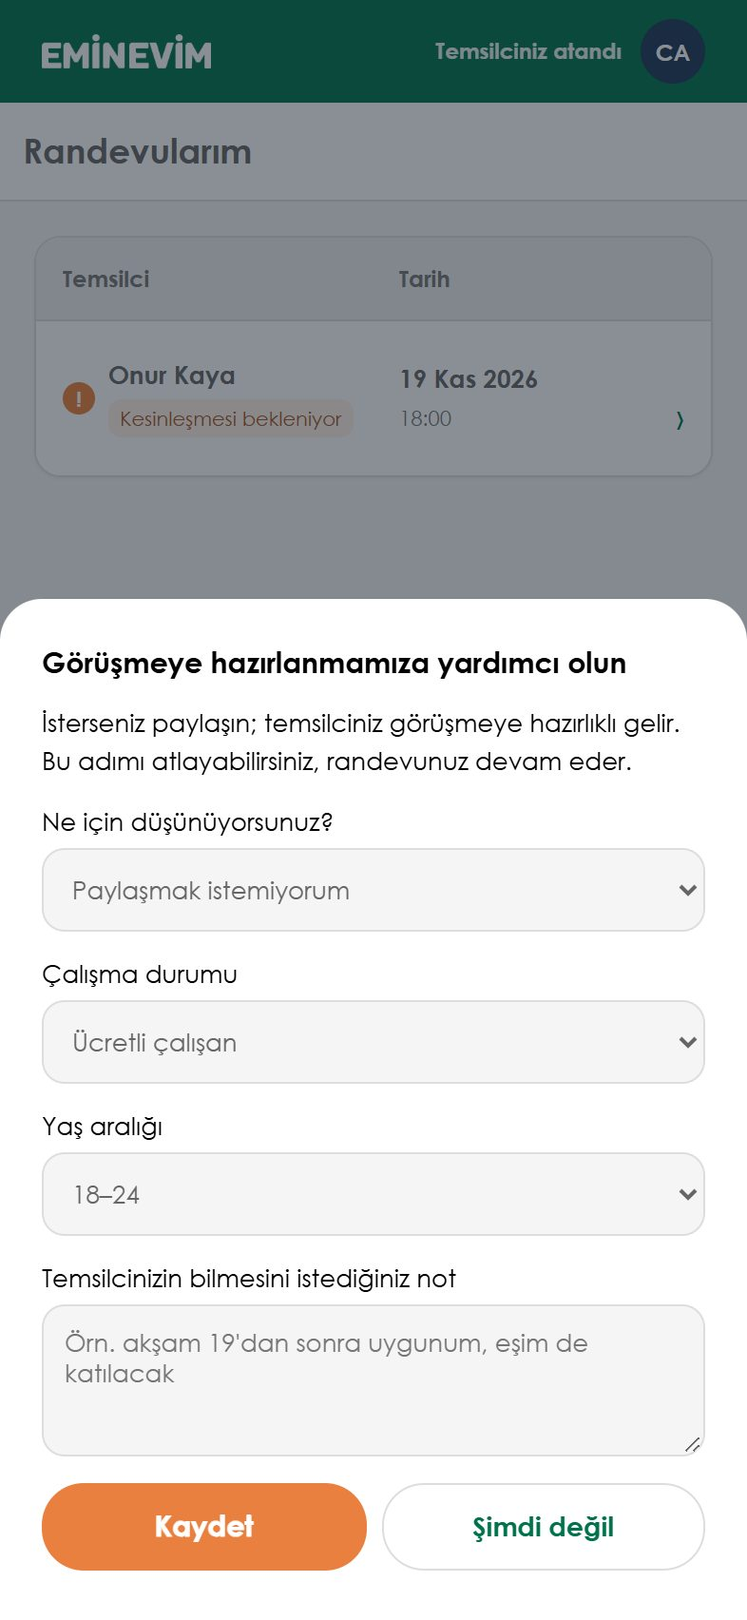
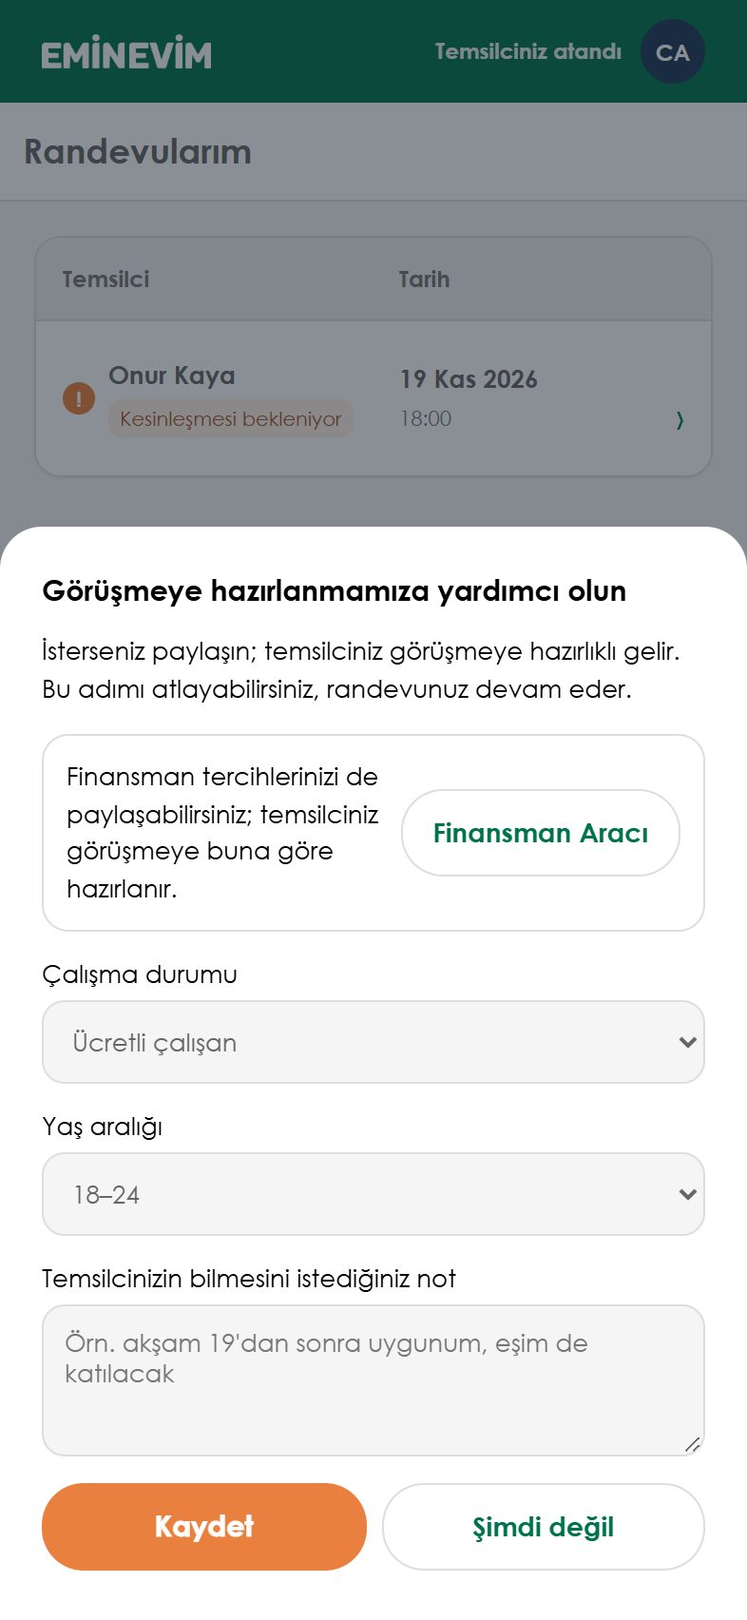
Görüşmeye hazırlık: finansman türü sorusu yerine Finansman Aracı düğmesi

Changed region(s): [[0.0, 0.311, 1.0, 0.5599], [0.916, 0.4977, 0.9466, 0.5288]]

diff --git a/Eminevim Saha Paneli.dc.html b/Eminevim Saha Paneli.dc.html
@@ -717,7 +717,7 @@ html{-webkit-tap-highlight-color:transparent}
         <sc-if value="{{ mQrBekliyor }}"><b style="font:800 19px GOTHIC,'Century Gothic','Segoe UI',Arial,sans-serif;color:var(--ink);">Temsilcinizi doğrulayın</b><span style="font-size:13px;color:var(--dim);line-height:1.45;">Temsilcinizden bu kodu <b style="color:var(--ink);">Eminevim personel uygulamasıyla</b> okutmasını isteyin. Doğrulanınca ekranınız yeşile döner.</span><div style="padding:12px;border:1px solid var(--line);border-radius:14px;background:#fff;margin-top:6px;line-height:0;"><sc-if value="{{ mQrResimVar }}"><img src="{{ mQrSrc }}" alt="Doğrulama kodu (QR)" style="width:188px;height:188px;image-rendering:pixelated;"></sc-if></div><span style="font-size:12.5px;color:var(--dim);">Okutamazsa kod: <b style="font-size:18px;letter-spacing:6px;color:var(--ink);">{{ mQrKod }}</b></span><span style="display:flex;align-items:center;gap:8px;font-size:12.5px;color:#00724C;font-weight:700;margin-top:2px;"><span style="width:14px;height:14px;border-radius:50%;border:2px solid #00724C;border-top-color:transparent;animation:spin 1s linear infinite;"></span>Okutulması bekleniyor…</span><span style="font-size:12px;color:#B25E30;line-height:1.45;background:var(--tintRed);border-radius:14px;padding:8px 12px;margin-top:4px;">Ekranınız yeşile dönmezse kişisel bilgi vermeyin ve 444 36 46'yı arayın.</span><button class="m-btn o" onClick="{{ mQrAc }}">Kodu yenile / kontrol et</button><button onClick="{{ mQrOrnek }}" style="min-height:34px;border:none;background:transparent;color:var(--dim);font-size:12px;font-weight:700;text-decoration:underline;cursor:pointer;">Örnek: temsilci okuttu</button></sc-if>
         <sc-if value="{{ mQrTamam }}"><span style="width:76px;height:76px;border-radius:50%;background:#00724C;display:flex;align-items:center;justify-content:center;animation:popIn .3s ease-out;"><svg width="40" height="40" viewBox="0 0 24 24" fill="none" stroke="#fff" stroke-width="3"><path d="M5 12l5 5L19 7"/></svg></span><b style="font:800 20px GOTHIC,'Century Gothic','Segoe UI',Arial,sans-serif;color:#00724C;margin-top:6px;">Kimlik doğrulandı</b><span style="display:flex;align-items:center;gap:10px;background:var(--tintGreen);border-radius:14px;padding:10px 14px;margin-top:4px;"><span style="width:40px;height:40px;border-radius:50%;background-color:#1E3856;background-image:{{ mRepFotoCss }};background-size:cover;background-position:center;color:{{ mRepBasRenk }};font:800 14px GOTHIC,'Century Gothic','Segoe UI',Arial,sans-serif;display:flex;align-items:center;justify-content:center;">{{ mRepBas }}</span><span style="text-align:left;"><b style="display:block;font-size:15px;color:var(--ink);">{{ mRepAd }}</b><span style="font-size:12px;color:#00724C;font-weight:700;">✓ Eminevim temsilcisi · Sicil {{ mRepSicil }}</span></span></span><span style="font-size:13px;color:var(--dim);line-height:1.45;margin-top:4px;">Görüşmeniz {{ mDogrulamaSaat }}'da başladı. İyi görüşmeler!</span><button class="btn-turuncu-yazi" onClick="{{ mQrKapat }}" style="width:100%;min-height:46px;border:none;background:#EA803F;color:#fff;border-radius:22px;font-size:15px;font-weight:900;cursor:pointer;font-family:GOTHIC,'Century Gothic','Segoe UI',Arial,sans-serif;margin-top:8px;">Tamam</button></sc-if>
       </div></div></sc-if>
-      <sc-if value="{{ ekBilgiAcik }}"><div onClick="{{ mEkBilgiKapat }}" style="position:absolute;inset:0;z-index:70;background:rgba(22,31,43,.5);display:flex;align-items:flex-end;"><form class="m-kart customer-sheet" role="dialog" aria-modal="true" aria-label="Görüşmeye hazırlanmamıza yardımcı olun" onClick="{{ stopProp }}" style="width:100%;border:0;border-radius:22px 22px 0 0;padding:24px 22px;gap:14px" onSubmit="{{ mEkBilgiKaydet }}"><h3>Görüşmeye hazırlanmamıza yardımcı olun</h3><p>İsterseniz paylaşın; temsilciniz görüşmeye hazırlıklı gelir. Bu adımı atlayabilirsiniz, randevunuz devam eder.</p><label class="m-alan">Ne için düşünüyorsunuz?<select aria-label="Ne için düşünüyorsunuz" value="{{ ekNeIcin }}" onChange="{{ setEkNeIcin }}"><option value="">Paylaşmak istemiyorum</option><option>Konut</option><option>Araç</option><option>İşyeri</option><option>Henüz karar vermedim</option></select></label><label class="m-alan">Çalışma durumu<select aria-label="Çalışma durumu" value="{{ ekCalisma }}" onChange="{{ setEkCalisma }}"><option value="">Paylaşmak istemiyorum</option><option>Ücretli çalışan</option><option>Serbest çalışan / işletme sahibi</option><option>Emekli</option><option>Öğrenci</option><option>Çalışmıyor</option><option>Diğer</option></select></label><label class="m-alan">Yaş aralığı<select aria-label="Yaş aralığı" value="{{ ekYas }}" onChange="{{ setEkYas }}"><option value="">Paylaşmak istemiyorum</option><option>18 yaş altı</option><option>18–24</option><option>25–34</option><option>35–44</option><option>45–54</option><option>55–64</option><option>65 ve üzeri</option></select></label><label class="m-alan">Temsilcinizin bilmesini istediğiniz not<textarea maxlength="300" value="{{ ekNot }}" onChange="{{ setEkNot }}" placeholder="Örn. akşam 19'dan sonra uygunum, eşim de katılacak"></textarea></label><div class="m-actions"><button class="m-btn" type="submit">Kaydet</button><button class="m-btn o" type="button" onClick="{{ mEkBilgiKapat }}">Şimdi değil</button></div></form></div></sc-if>
+      <sc-if value="{{ ekBilgiAcik }}"><div onClick="{{ mEkBilgiKapat }}" style="position:absolute;inset:0;z-index:70;background:rgba(22,31,43,.5);display:flex;align-items:flex-end;"><form class="m-kart customer-sheet" role="dialog" aria-modal="true" aria-label="Görüşmeye hazırlanmamıza yardımcı olun" onClick="{{ stopProp }}" style="width:100%;border:0;border-radius:22px 22px 0 0;padding:24px 22px;gap:14px" onSubmit="{{ mEkBilgiKaydet }}"><h3>Görüşmeye hazırlanmamıza yardımcı olun</h3><p>İsterseniz paylaşın; temsilciniz görüşmeye hazırlıklı gelir. Bu adımı atlayabilirsiniz, randevunuz devam eder.</p><div style="display:flex;align-items:center;gap:10px;padding:12px;border:1px solid var(--line);border-radius:14px;"><p style="flex:1;font-size:13px;">Finansman tercihlerinizi de paylaşabilirsiniz; temsilciniz görüşmeye buna göre hazırlanır.</p><button class="m-btn o" type="button" onClick="{{ mEkBilgiFinansman }}" style="flex:0 0 auto;">Finansman Aracı</button></div><label class="m-alan">Çalışma durumu<select aria-label="Çalışma durumu" value="{{ ekCalisma }}" onChange="{{ setEkCalisma }}"><option value="">Paylaşmak istemiyorum</option><option>Ücretli çalışan</option><option>Serbest çalışan / işletme sahibi</option><option>Emekli</option><option>Öğrenci</option><option>Çalışmıyor</option><option>Diğer</option></select></label><label class="m-alan">Yaş aralığı<select aria-label="Yaş aralığı" value="{{ ekYas }}" onChange="{{ setEkYas }}"><option value="">Paylaşmak istemiyorum</option><option>18 yaş altı</option><option>18–24</option><option>25–34</option><option>35–44</option><option>45–54</option><option>55–64</option><option>65 ve üzeri</option></select></label><label class="m-alan">Temsilcinizin bilmesini istediğiniz not<textarea maxlength="300" value="{{ ekNot }}" onChange="{{ setEkNot }}" placeholder="Örn. akşam 19'dan sonra uygunum, eşim de katılacak"></textarea></label><div class="m-actions"><button class="m-btn" type="submit">Kaydet</button><button class="m-btn o" type="button" onClick="{{ mEkBilgiKapat }}">Şimdi değil</button></div></form></div></sc-if>
       <sc-if value="{{ mIptalAcik }}"><div onClick="{{ mIptalKapat }}" style="position:absolute;inset:0;z-index:70;background:rgba(22,31,43,.5);display:flex;align-items:flex-end;animation:backdropIn .2s ease-out;"><div onClick="{{ stopProp }}" class="customer-sheet" role="dialog" aria-modal="true" aria-label="Randevuyu iptal et" style="width:100%;background:var(--card);border-radius:22px 22px 0 0;padding:22px 22px 26px;display:flex;flex-direction:column;gap:10px;animation:sheetUp .32s cubic-bezier(.2,.8,.25,1);"><b style="font:800 19px GOTHIC,'Century Gothic','Segoe UI',Arial,sans-serif;color:var(--ink);">Randevunuz iptal edilsin mi?</b><span style="font-size:13px;color:var(--dim);line-height:1.45;">{{ mGun }}, {{ mSaat }} randevunuz iptal edilir ve temsilcinize bildirilir.</span><button onClick="{{ mIptalEt }}" style="min-height:42px;border:1.5px solid #00724C;background:var(--card);color:#00724C;border-radius:22px;font-size:13px;font-weight:800;cursor:pointer;font-family:GOTHIC,'Century Gothic','Segoe UI',Arial,sans-serif;border-color:#B25E30;color:#B25E30;margin-top:6px;">Randevuyu iptal et</button><button class="btn-turuncu-yazi" onClick="{{ mIptalKapat }}" style="min-height:46px;border:none;background:#EA803F;color:#fff;border-radius:22px;font-size:15px;font-weight:900;cursor:pointer;font-family:GOTHIC,'Century Gothic','Segoe UI',Arial,sans-serif;">Vazgeç</button></div></div></sc-if>
       <sc-if value="{{ mPuanAcik }}"><div onClick="{{ mPuanKapat }}" style="position:absolute;inset:0;z-index:70;background:rgba(22,31,43,.5);display:flex;align-items:flex-end;animation:backdropIn .2s ease-out;"><div onClick="{{ stopProp }}" class="customer-sheet" role="dialog" aria-modal="true" aria-label="Görüşmeyi puanlayın" style="width:100%;background:var(--card);border-radius:22px 22px 0 0;padding:22px 22px 26px;display:flex;flex-direction:column;align-items:center;gap:8px;text-align:center;animation:sheetUp .32s cubic-bezier(.2,.8,.25,1);"><b style="font:800 19px GOTHIC,'Century Gothic','Segoe UI',Arial,sans-serif;color:var(--ink);">Görüşmeniz nasıldı?</b><span style="font-size:13px;color:var(--dim);">{{ mRepAd }} ile görüşmenizi puanlayın.</span><div style="display:flex;gap:6px;margin:6px 0;"><sc-for list="{{ mYildizlar }}" as="y" hint-placeholder-count="5"><button onClick="{{ y.onSec }}" aria-label="{{ y.n }} yıldız" style="width:46px;height:46px;border:none;background:transparent;font-size:34px;line-height:1;color:{{ y.renk }};cursor:pointer;">★</button></sc-for></div><button class="btn-turuncu-yazi" onClick="{{ mPuanGonder }}" disabled="{{ mPuanSecimYok }}" style="width:100%;min-height:46px;border:none;background:#EA803F;color:#fff;border-radius:22px;font-size:15px;font-weight:900;cursor:pointer;font-family:GOTHIC,'Century Gothic','Segoe UI',Arial,sans-serif;opacity:{{ mPuanOpacity }};">Gönder</button><button onClick="{{ mPuanKapat }}" style="width:100%;min-height:38px;border:none;background:transparent;color:var(--dim);font-size:13px;font-weight:700;cursor:pointer;">Şimdi değil</button></div></div></sc-if>
       <sc-if value="{{ temsilciBilgiAcik }}"><div onClick="{{ temsilciBilgiKapat }}" style="position:absolute;inset:0;z-index:70;background:rgba(22,31,43,.5);display:flex;align-items:flex-end;animation:backdropIn .2s ease-out;"><div onClick="{{ stopProp }}" class="customer-sheet" role="dialog" aria-modal="true" aria-label="Temsilci bilgileri" style="width:100%;background:var(--card);border-radius:22px 22px 0 0;padding:24px 22px 26px;display:flex;flex-direction:column;align-items:center;gap:6px;text-align:center;animation:sheetUp .32s cubic-bezier(.2,.8,.25,1);"><span style="width:84px;height:84px;border-radius:50%;background-color:#1E3856;background-image:{{ mRepFotoCss }};background-size:cover;background-position:center;color:{{ mRepBasRenk }};font:800 26px GOTHIC,'Century Gothic','Segoe UI',Arial,sans-serif;display:flex;align-items:center;justify-content:center;">{{ mRepBas }}</span><b style="font:800 19px GOTHIC,'Century Gothic','Segoe UI',Arial,sans-serif;color:var(--ink);margin-top:6px;">{{ mRepAd }}</b><span style="font-size:13px;color:var(--dim);">Müşteri Temsilcisi · {{ mRepSube }}</span><span style="background:var(--tintGreen);color:#00724C;font-size:12px;font-weight:800;border-radius:22px;padding:4px 12px;margin-top:4px;">✓ Eminevim onaylı · Sicil {{ mRepSicil }}</span><span style="display:flex;width:100%;gap:6px;margin-top:12px;padding:10px 0;border-top:1px solid var(--line);border-bottom:1px solid var(--line);"><span style="flex:1;"><b style="display:block;font-size:16px;color:var(--ink);">{{ mRepPuanY }}</b><span style="font-size:11px;color:var(--dim);">Puan</span></span><span style="flex:1;"><b style="display:block;font-size:16px;color:var(--ink);">{{ mRepDeneyimY }}</b><span style="font-size:11px;color:var(--dim);">Deneyim</span></span><span style="flex:1;"><b style="display:block;font-size:16px;color:var(--ink);">{{ mRepGorusmeY }}</b><span style="font-size:11px;color:var(--dim);">Görüşme</span></span></span><span style="font-size:12.5px;color:var(--dim);line-height:1.45;margin-top:8px;">Görüşmede temsilcinizin kimlik kartındaki sicil numarası buradakiyle aynıdır.</span><button onClick="{{ temsilciBilgiKapat }}" style="width:100%;min-height:46px;margin-top:12px;border:1.5px solid #00724C;background:var(--card);color:#00724C;border-radius:22px;font-size:14px;font-weight:800;cursor:pointer;font-family:GOTHIC,'Century Gothic','Segoe UI',Arial,sans-serif;">Kapat</button></div></div></sc-if>
@@ -1289,7 +1289,7 @@ class Component extends DCLogic {
     girisEmail: "ayse.kaya@ornek.com",
     girisTelefon: "0532 145 67 89",
     kodTel: "0532 145 67 89",
-    mKonusmaAcik:false, mSeciliRandevuId:null, mOkunanRandevular:{}, mGecmis: [], tpKayitlar: {}, tpBildirim: "", mBildirim: "", mBildirimSonra: false, personelRepId:"s1", ekBilgiAcik: false, ekCalisma: "", ekYas: "", ekNeIcin: "", ekNot: "", mSorunAcik: false, mSorunNot: "", mSorunKonu: "Randevu", tpOzetNot: "", tpSonraki: "Müşterinin değerlendirmesi bekleniyor",
+    mKonusmaAcik:false, mSeciliRandevuId:null, mOkunanRandevular:{}, mGecmis: [], tpKayitlar: {}, tpBildirim: "", mBildirim: "", mBildirimSonra: false, personelRepId:"s1", ekBilgiAcik: false, ekCalisma: "", ekYas: "", ekNot: "", mSorunAcik: false, mSorunNot: "", mSorunKonu: "Randevu", tpOzetNot: "", tpSonraki: "Müşterinin değerlendirmesi bekleniyor",
     mTalep: null,          // müşterinin temsilci talebi {tip:"ziyaret"|"telefon", gunYazi, saat, yer, durum:"alindi"|"atandi"|"netlesti"|"degisti"|"gorusme"|"tamamlandi", konum, gecikme, ozet, ozetCevap, puan, bolgeDisi, repId}
     hosgeldinAdim: 0,      // 1-3: yeni gelen müşteriye tanıtım penceresi
     sohbetTaslak: "",
@@ -1558,6 +1558,12 @@ class Component extends DCLogic {
     const { musteri, mesajlar, eskiRepler, ...t } = k;
     return t.durum === "alindi" ? { ...t, repId: null } : t;
   }
+  ekBilgiKaydet(sonra) {
+    // Hazırlık bilgisi kaydedilir; Finansman Aracı düğmesinde ardından Finansman sekmesi açılır (sonra)
+    const st = this.state, b = { calisma: st.ekCalisma, yas: st.ekYas, not: st.ekNot.trim() };
+    this.setState({ ekBilgiAcik: false, customerForm: { ...st.customerForm, ekBilgi: Object.values(b).some(Boolean) ? b : null, ekBilgiAtlandi: true }, ...(sonra || {}) },
+      () => { if (this.state.mTalep) this.mKayitYaz(this.state.mTalep); });
+  }
   canliOnBilgi() {
     // Müşterinin isteğe bağlı ön bilgisi (Finansman Aracı tercihi + hazırlık bilgileri) SPY'ye görüşme öncesi gider
     const s = this.state, b = (s.musteriBasvurulari || []).find((x) => x.id === s.aktifBasvuruId);
@@ -1718,13 +1724,14 @@ class Component extends DCLogic {
       mTakipHarita:rota,mVarisMetin:eta?"Tahmini varış "+eta.saat+" · yaklaşık "+eta.dakika+" dakika":"Tahmini varış bilgisi bekleniyor",
       mKonumGuncel:eta?.eski?"Son konum güncellemesi "+Math.floor((Date.now()-t.sonKonum)/60000)+" dakika önce. Varış tahmini değişebilir.":"Son bilinen konum ve tahmini rota.",
       mTakipMesaj:()=>this.setState({yaOpen:false,yaKaynak:"",customerNav:"sohbet",mKonusmaAcik:true}),
-      mEkBilgiSonra:!!t&&t.tip!=="telefon"&&["alindi","atandi","netlesti","yolda"].includes(t.durum)&&!s.ekBilgiAcik,mEkBilgiOzet:(()=>{const b=s.customerForm.ekBilgi;const x=b?[b.neIcin,b.calisma,b.yas].filter(Boolean).join(" · ")+(b.not?" · Not: "+b.not:""):"";return x||"Ne için düşündüğünüzü, çalışma durumunuzu ve yaş aralığınızı paylaşırsanız temsilciniz görüşmeye hazırlıklı gelir.";})(),
+      mEkBilgiSonra:!!t&&t.tip!=="telefon"&&["alindi","atandi","netlesti","yolda"].includes(t.durum)&&!s.ekBilgiAcik,mEkBilgiOzet:(()=>{const b=s.customerForm.ekBilgi;const x=b?[b.calisma,b.yas].filter(Boolean).join(" · ")+(b.not?" · Not: "+b.not:""):"";return x||"Çalışma durumunuzu, yaş aralığınızı ve finansman tercihlerinizi paylaşırsanız temsilciniz görüşmeye hazırlıklı gelir.";})(),
       mEkBilgiDugme:s.customerForm.ekBilgi?"Bilgileri düzenle":s.customerForm.ekBilgiAtlandi?"İsterseniz bilgi ekleyin":"Bilgi ekle",
-      ekBilgiAcik:s.ekBilgiAcik&&!(s.hosgeldinAdim>0),ekCalisma:s.ekCalisma,ekYas:s.ekYas,ekNeIcin:s.ekNeIcin,ekNot:s.ekNot,setEkNeIcin:(e)=>this.setState({ekNeIcin:e.target.value}),setEkNot:(e)=>this.setState({ekNot:e.target.value}),
+      ekBilgiAcik:s.ekBilgiAcik&&!(s.hosgeldinAdim>0),ekCalisma:s.ekCalisma,ekYas:s.ekYas,ekNot:s.ekNot,setEkNot:(e)=>this.setState({ekNot:e.target.value}),
       mFinansmanTercihGit:()=>this.setState({customerNav:"basvuru"}),
-      mEkBilgiAc:()=>this.setState({ekBilgiAcik:true,ekCalisma:s.customerForm.ekBilgi?.calisma||"",ekYas:s.customerForm.ekBilgi?.yas||"",ekNeIcin:s.customerForm.ekBilgi?.neIcin||"",ekNot:s.customerForm.ekBilgi?.not||""}),
+      mEkBilgiAc:()=>this.setState({ekBilgiAcik:true,ekCalisma:s.customerForm.ekBilgi?.calisma||"",ekYas:s.customerForm.ekBilgi?.yas||"",ekNot:s.customerForm.ekBilgi?.not||""}),
       mEkBilgiKapat:()=>this.setState({ekBilgiAcik:false,customerForm:{...this.state.customerForm,ekBilgiAtlandi:true}}),setEkCalisma:(e)=>this.setState({ekCalisma:e.target.value}),setEkYas:(e)=>this.setState({ekYas:e.target.value}),
-      mEkBilgiKaydet:(e)=>{e.preventDefault();const st=this.state,b={calisma:st.ekCalisma,yas:st.ekYas,neIcin:st.ekNeIcin,not:st.ekNot.trim()};this.setState({ekBilgiAcik:false,customerForm:{...st.customerForm,ekBilgi:Object.values(b).some(Boolean)?b:null,ekBilgiAtlandi:true}},()=>{if(this.state.mTalep)this.mKayitYaz(this.state.mTalep);});},
+      mEkBilgiKaydet:(e)=>{e.preventDefault();this.ekBilgiKaydet();},
+      mEkBilgiFinansman:()=>this.ekBilgiKaydet({customerNav:"basvuru"}),
       mGecmisVar:!!s.mGecmis?.length,mGecmisListe:(s.mGecmis||[]).map((g)=>({baslik:g.gunYazi+" · "+g.saat+" · "+(g.durum==="iptal"?"İptal edildi":"Tamamlandı"),yer:g.yer,ozet:(g.ozet||[]).map((o)=>o.k+": "+o.v).join(" · "),destek:g.sorun?"Destek: "+g.sorun.durum:""})),
     };
   }
@@ -1745,7 +1752,7 @@ class Component extends DCLogic {
       customerForm: { name: ad, phone: telYazi, email: "", address: yer, testMode: false, ekBilgi:q.get("calisma")||q.get("yas")?{calisma:q.get("calisma")||"",yas:q.get("yas")||""}:null },
       musteriBasvurulari: [], aktifBasvuruId: null, customerMeetings: [], appointments: [], degerlendirmeler: [],
       basvuruDuzenle: false, basvuruTuru: "", basvuruTutar: "", talepSebebi: "",
-      ekBilgiAcik: !!gun, ekCalisma: "", ekYas: "", ekNeIcin: "", ekNot: "",
+      ekBilgiAcik: !!gun, ekCalisma: "", ekYas: "", ekNot: "",
       mTalep: Appointment.create({...talep, id:q.get("rid")||undefined,tarih:q.get("tarih")||"",konum:gun?{lat:Number(q.get("lat"))||40.9923,lng:Number(q.get("lng"))||29.1244,adres:yer,bolge:q.get("bolge")||(/üsküdar/i.test(yer)?"Üsküdar":/ümraniye/i.test(yer)?"Ümraniye":"Ataşehir")}:null}), chatMessages: mesaj, hosgeldinAdim: 1, customerNav: "basvurum",
     });
   }
@@ -1753,7 +1760,7 @@ class Component extends DCLogic {
     // Görüşmeye hazırlık penceresi: açık ziyaret çağrısı var, bilgi yok ve müşteri daha önce "Şimdi değil" demedi
     const s = this.state, t = s.mTalep, f = s.customerForm || {};
     const sor = !!t && t.tip !== "telefon" && ["alindi", "atandi", "netlesti", "yolda"].includes(t.durum) && !f.ekBilgi && !f.ekBilgiAtlandi;
-    return sor ? { ekBilgiAcik: true, ekCalisma: "", ekYas: "", ekNeIcin: "", ekNot: "" } : {};
+    return sor ? { ekBilgiAcik: true, ekCalisma: "", ekYas: "", ekNot: "" } : {};
   }
   mTemsilciIste() {
     // Uygulamadan temsilci isteği: kayıtlı müşterinin adı/telefonu hazır, gün-saat-ilçe seçilir
@@ -1782,7 +1789,7 @@ class Component extends DCLogic {
     const t = this.state.mTalep;
     if (!t || t.durum !== "atandi") return;
     this.mKayitYaz({...t,durum:"netlesti"});
-    this.setState((st) => ({ ekBilgiAcik:!st.customerForm.ekBilgi&&!st.customerForm.ekBilgiAtlandi,ekCalisma:"",ekYas:"",ekNeIcin:"",ekNot:"",chatMessages: [...st.chatMessages, { from: "musteri", t: Date.now(), text: t.gunYazi + " " + t.saat + " uygun, onaylıyorum." }] }));
+    this.setState((st) => ({ ekBilgiAcik:!st.customerForm.ekBilgi&&!st.customerForm.ekBilgiAtlandi,ekCalisma:"",ekYas:"",ekNot:"",chatMessages: [...st.chatMessages, { from: "musteri", t: Date.now(), text: t.gunYazi + " " + t.saat + " uygun, onaylıyorum." }] }));
     clearTimeout(this._onayTimer);
     if (!CANLI) this._onayTimer = setTimeout(() => this.setState((st) => ({ chatMessages: [...st.chatMessages, { from: "temsilci", t: Date.now(), text: "Teşekkürler, görüşmek üzere. Görüşme günü yola çıktığımda Randevularım'dan takip edebilirsiniz." }] })), 1200);
   }
@@ -2848,7 +2855,7 @@ class Component extends DCLogic {
         if(sec.durum==="gerceklesti") sat.push(["Müşteri puanı",sec.puan?"★".repeat(sec.puan):"Henüz puanlanmadı"],["Sonraki adım",sec.talep?.sonrakiAdim||"Belirlenmedi"]);
         if(CANLI&&sec.talep?.musteri){const m=sec.talep.musteri,b=sec.talep.onBilgi;if(m.tel)sat.unshift(["Telefon",m.tel]);if(sec.talep.uzaklikKm!=null)sat.push(["Size uzaklık","~"+String(sec.talep.uzaklikKm).replace(".",",")+" km"]);
           if(b)sat.push(["Finansman tercihi",b.tur+" · "+b.plan+(b.tutar?" · ~"+Number(b.tutar).toLocaleString("tr-TR")+" ₺":"")+" · %"+b.pesinatPct+" · "+b.vade+" ay"+(b.aylik?" · aylık ~"+Number(b.aylik).toLocaleString("tr-TR")+" ₺":"")]);}
-        if(sec.ekBilgi){if(sec.ekBilgi.neIcin)sat.push(["Ne için",sec.ekBilgi.neIcin]);if(sec.ekBilgi.calisma)sat.push(["Çalışma durumu",sec.ekBilgi.calisma]);if(sec.ekBilgi.yas)sat.push(["Yaş aralığı",sec.ekBilgi.yas]);if(sec.ekBilgi.not)sat.push(["Müşteri notu",sec.ekBilgi.not]);}
+        if(sec.ekBilgi){if(sec.ekBilgi.calisma)sat.push(["Çalışma durumu",sec.ekBilgi.calisma]);if(sec.ekBilgi.yas)sat.push(["Yaş aralığı",sec.ekBilgi.yas]);if(sec.ekBilgi.not)sat.push(["Müşteri notu",sec.ekBilgi.not]);}
         let not = "";
         if (CANLI && sec.durum === "yeni" && sec.talep) {
           const bitis = sec.talep.teklif?.bitis, kalan = bitis ? Math.max(0, Math.round((bitis - Date.now() - (this._canliFark || 0)) / 1000)) : null;

diff --git a/panel.html b/panel.html
@@ -216,7 +216,7 @@
   </main>
 </div>
 
-<script src="senaryo/adimlar.js?v=202611181332"></script>
+<script src="senaryo/adimlar.js?v=202611181450"></script>
 <script>
 (function(){
   var bolumler = ["cerceve","video","senaryo-1","senaryo-2"];

diff --git a/senaryo/adimlar.js b/senaryo/adimlar.js
@@ -1,5 +1,5 @@
 // araclar/senaryo_goruntu.py üretir; elle düzenlenmez
-window.SENARYO_SURUM = "202611181332";
+window.SENARYO_SURUM = "202611181450";
 window.SENARYO = {
  "web": [
   {

diff --git a/tests/preparation-popup.py b/tests/preparation-popup.py
@@ -28,7 +28,7 @@ with sync_playwright() as p:
         assert app(page,'app.state.mTalep.durum')=='netlesti'
         box=dialog.bounding_box()
         assert box['y']>=0 and box['x']>=0 and box['x']+box['width']<=width+1
-        assert dialog.get_by_label('Ne için düşünüyorsunuz').count()==1 and dialog.get_by_label('Temsilcinizin bilmesini istediğiniz not').count()==1
+        assert dialog.get_by_label('Ne için düşünüyorsunuz').count()==0 and dialog.get_by_role('button',name='Finansman Aracı',exact=True).count()==1 and dialog.get_by_label('Temsilcinizin bilmesini istediğiniz not').count()==1
         dialog.get_by_role('button',name='Şimdi değil',exact=True).scroll_into_view_if_needed()
         page.screenshot(path=str(OUT/f'hazirlik-popup-{width}.png'))
         dialog.get_by_role('button',name='Şimdi değil',exact=True).click()
@@ -42,7 +42,13 @@ with sync_playwright() as p:
         assert app(page,'app.state.customerForm.ekBilgi.calisma')=='Emekli'
         page.get_by_role('button',name='Bilgileri düzenle',exact=True).click()
         assert dialog.get_by_role('button',name='Ön tercihler',exact=True).count()==0
-        dialog.get_by_role('button',name='Şimdi değil',exact=True).click()
+        # Finansman Aracı düğmesi: girilen bilgi kaydedilir, Finansman sekmesi açılır
+        dialog.get_by_label('Yaş aralığı',exact=True).select_option(label='35–44')
+        dialog.get_by_role('button',name='Finansman Aracı',exact=True).click()
+        page.locator('.customer-finance').wait_for()
+        assert dialog.count()==0 and app(page,'app.state.customerForm.ekBilgi.yas')=='35–44' and app(page,'app.state.customerForm.ekBilgi.calisma')=='Emekli'
+        page.get_by_role('button',name='Randevularım',exact=True).click()
+        page.locator('.m-randevu-row').first.click()
         page.get_by_role('button',name='Ön tercihler',exact=True).click()
         page.locator('.customer-finance').wait_for()
         assert app(page,'app.state.mTalep.durum')=='netlesti'

diff --git a/tests/merkez-akis.py b/tests/merkez-akis.py
@@ -320,14 +320,14 @@ with sync_playwright() as p:
         uyg.get_by_role('button', name='Atla', exact=True).click()
     uyg.get_by_text('Görüşmeye hazırlanmamıza yardımcı olun', exact=True).wait_for()
     uyg.screenshot(path=str(OUT / '8-hazirlik.png'))
-    uyg.get_by_label('Ne için düşünüyorsunuz').select_option('Konut')
+    uyg.get_by_label('Çalışma durumu', exact=True).select_option(label='Emekli')
     uyg.get_by_role('button', name='Kaydet', exact=True).click()
     for _ in range(20):
         wk = next(x for x in merkez('api/durum?hepsi=1')['kayitlar'] if x['id'] == rid)
-        if (wk.get('ekBilgi') or {}).get('neIcin') == 'Konut':
+        if (wk.get('ekBilgi') or {}).get('calisma') == 'Emekli':
             break
         uyg.wait_for_timeout(300)
-    assert (wk.get('ekBilgi') or {}).get('neIcin') == 'Konut', wk.get('ekBilgi')
+    assert (wk.get('ekBilgi') or {}).get('calisma') == 'Emekli', wk.get('ekBilgi')
 
     # Hesap merkezde: A telefonunda açılan hesapla B telefonunda aynı numara + SMS koduyla girilir (ad sorulmaz); çağrılar da gelir
     def telefon_b():

diff --git a/URUN_KURALLARI.md b/URUN_KURALLARI.md
@@ -190,8 +190,9 @@ Sıradakiler: açık sorular: SMS biçimi, sentetik fotoğraflar.
 - **Web formu** merkezden açılırsa (`<merkez>/web-basvuru/index.html`) "Temsilci çağırmak istiyorum" çağrısı merkeze gider; SMS önizlemesindeki
   6 haneli giriş kodunu merkez verir. Uygulamada telefon + bu kodla girince aynı çağrı açılır (merkezde `api/kod`). Pages kopyasında eski
   gösteri davranışı (kod tarayıcıda üretilir).
-- **Görüşmeye hazırlık yalnız uygulamada** (web'de yok): çalışma durumu, yaş aralığı, "Ne için düşünüyorsunuz?" (Konut / Araç / İşyeri /
-  Henüz karar vermedim), kısa not (en çok 300 harf). Web'den gelen müşteri uygulamaya ilk girdiğinde (tanıtım penceresi kapanınca) ve saat
+- **Görüşmeye hazırlık yalnız uygulamada** (web'de yok): çalışma durumu, yaş aralığı, kısa not (en çok 300 harf) ve
+  **Finansman Aracı** düğmesi (2026-11-18: finansman türü burada sorulmaz, "Ne için düşünüyorsunuz?" kalktı; düğme girilenleri kaydedip
+  Finansman sekmesini açar, tür/tutar/vade orada seçilir ve SPY'ye ön bilgi olarak gider). Web'den gelen müşteri uygulamaya ilk girdiğinde (tanıtım penceresi kapanınca) ve saat
   onaylanınca sorulur; "Şimdi değil" → Randevum ayrıntısında "Görüşmeye hazırlık · isteğe bağlı" kartı kalır. Telefonla görüşme çağrısında sorulmaz.
 - Canlıda uydurma otomatik yanıtlar kapalıdır. SMS kodu test sürümünde ekranda gösterilir.
 - Merkezde atama puanı `atamaPuan` alanındadır (müşteri yıldız puanı `puan` ile karışmasın).

diff --git a/PROJE_ILERLEME.md b/PROJE_ILERLEME.md
@@ -767,3 +767,10 @@ Kullanıcı onaylı plan: hemen çağrıda uygulamanın açık olması şartı k
 - KVKK adımları eklendi: Senaryo 1'de web formunun Aydınlatma Metni penceresi, Senaryo 2'de uygulamanınki (onay kutusu yok,
   ticari ileti izni isteğe bağlı/işaretsiz; betik bunu da denetler). Senaryo 1: 16, Senaryo 2: 17 adım.
 - Test `tests/panel-senaryo.py`: 1440x900, 1280x640, 393x852, 390x664'te her adımda taşma denetimi OK.
+
+### 2026-11-18 (6) Görüşmeye hazırlık: finansman türü kalktı, Finansman Aracı düğmesi geldi
+- Kullanıcı isteği: kozmetik öneriler (taslak/kozmetik/*.jpg) uygulanmadı; yalnız bu değişiklik.
+- Hazırlık penceresinden "Ne için düşünüyorsunuz?" (Konut/Araç/İşyeri/Henüz karar vermedim) kalktı; yerine "Finansman Aracı" düğmesi:
+  girilenleri kaydeder, Finansman sekmesini açar (tür/tutar/vade orada; SPY'ye ön bilgi olarak gider). SPY detayında "Ne için" satırı da kalktı.
+- Testler: preparation-popup (düğme → kaydet + Finansman), merkez-akis (çalışma durumu ile), browser-flows, appointment-list, phone-layout,
+  web-flows, panel-senaryo OK. Senaryo görüntüleri yeniden üretildi.
